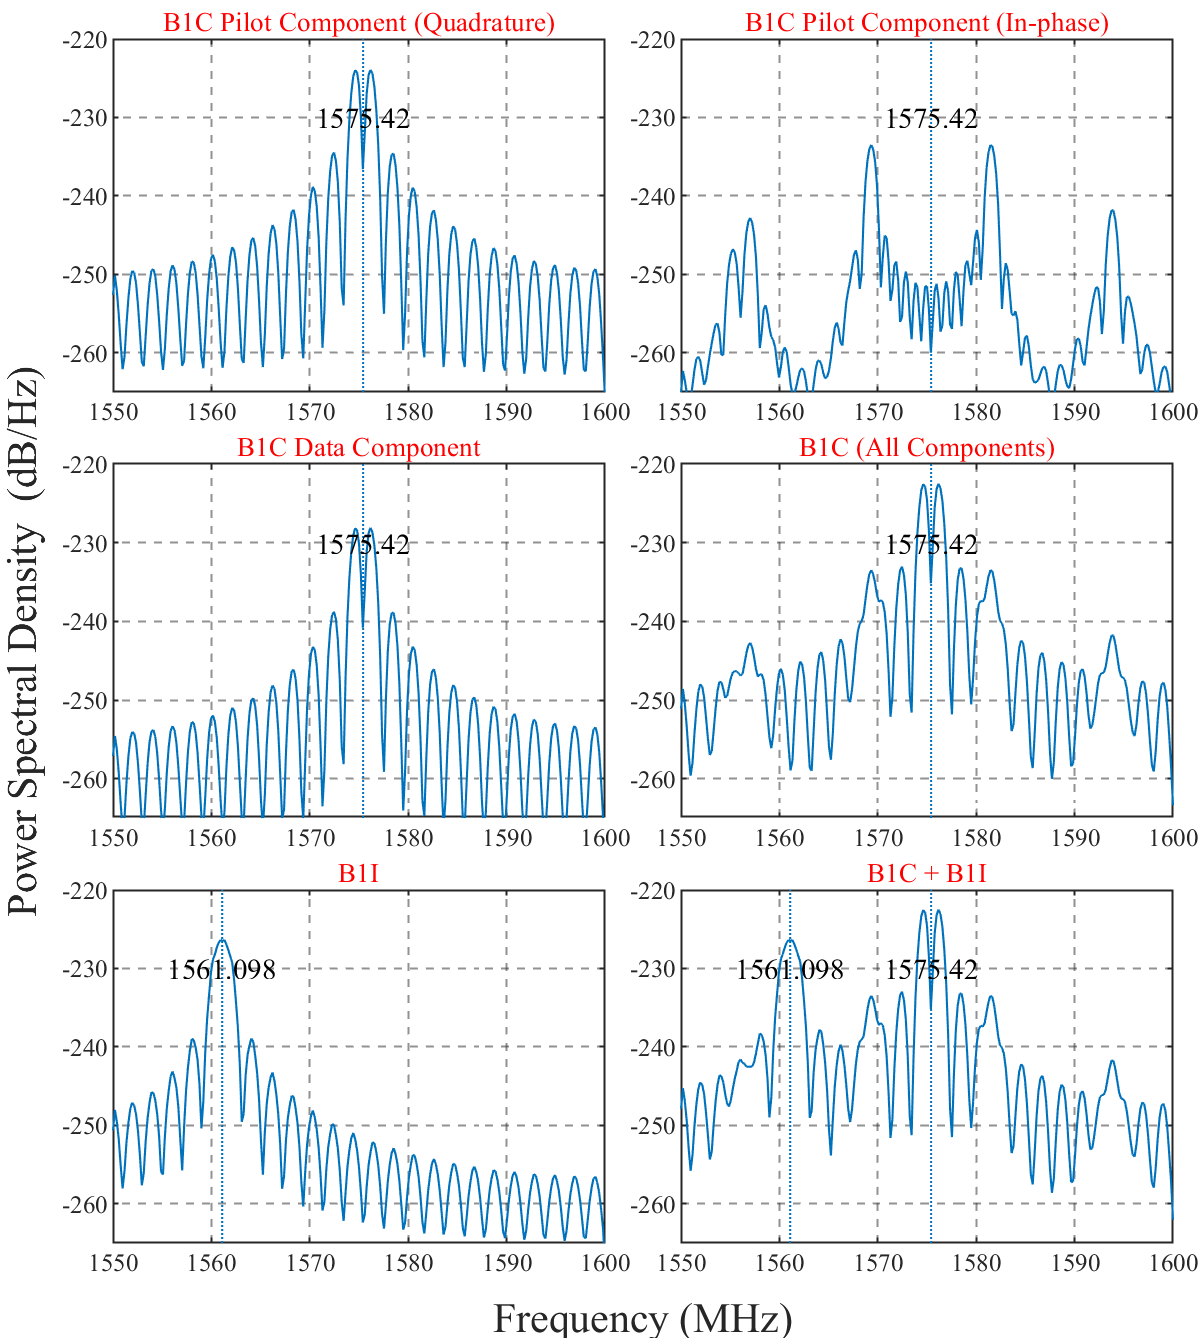
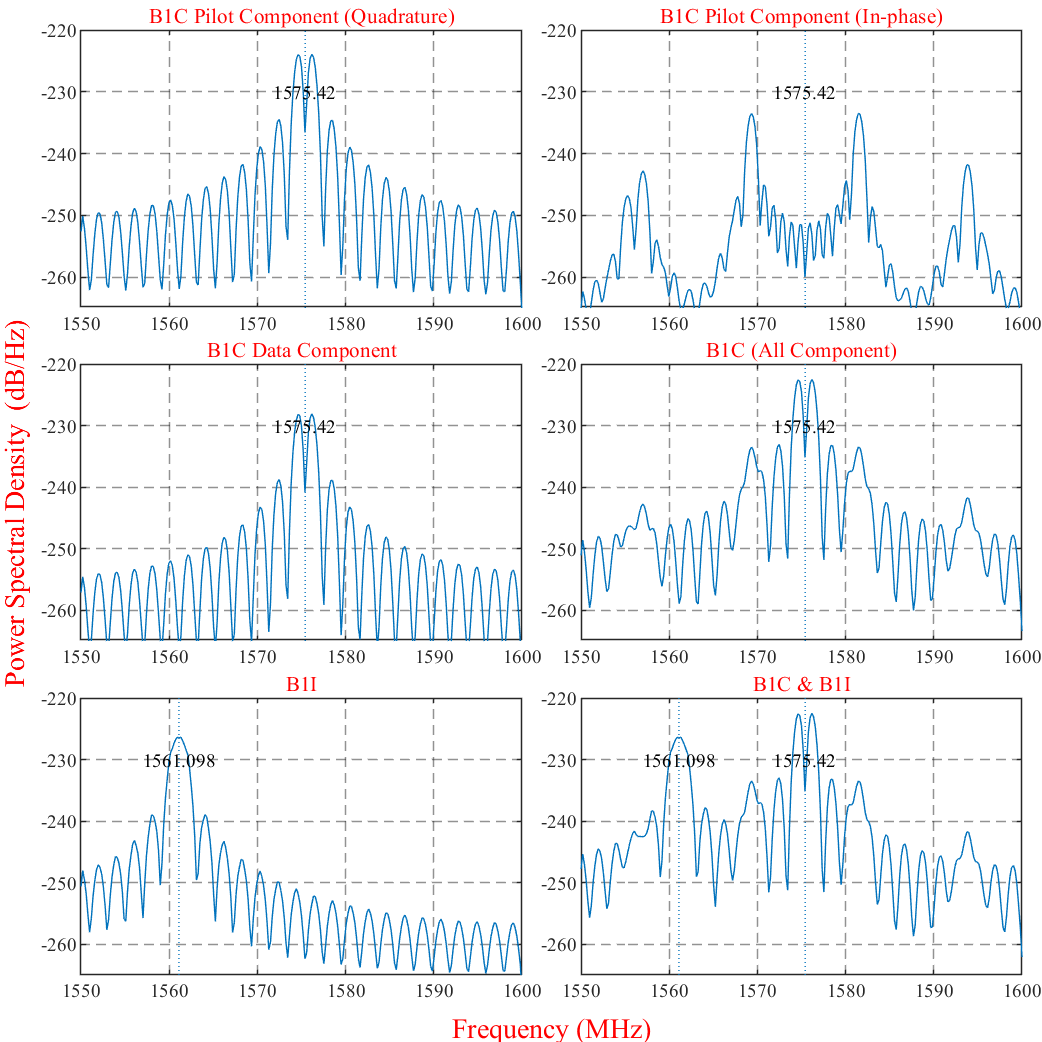
modify plot

diff --git a/plotB1PSD.m b/plotB1PSD.m
@@ -19,116 +19,61 @@ pb1i = -163;   % -163 dBW
 [b1c,sD,sP1,sP2] = b1cSignalGen(t,PRN,fs,fIFc,deltaF,phi,pb1c);
 b1i = b1iSignalGen(t,PRN,fs,fIFi,deltaF/fb1c*fb1i,phi,pb1i);
 %% 功率谱密度估计
-t = tiledlayout(3,2,'TileSpacing','none','Padding','none');
-xlabel(t,'Frequency (MHz)','FontName','Times New Roman','FontSize',10);
-ylabel(t,'Power Spectral Density  (dB/Hz)','FontName','Times New Roman','FontSize',10);
+fig = figure('Position',[100 100 500 500]);
+t = tiledlayout(3,2,'Parent',fig,'TileSpacing','none','Padding','none');
+xlabel(t,'Frequency (MHz)','FontName','Times New Roman','FontSize',10,'Color','r');
+ylabel(t,'Power Spectral Density  (dB/Hz)','FontName','Times New Roman','FontSize',10,'Color','r');
+ax = gobjects(3,2);
+for i = 1:6
+    ax(i) = nexttile;
+    ax(i).Box = 'on';
+    ax(i).Title.Color = 'r';
+    ax(i).FontName = 'Times New Roman';
+    ax(i).FontSize = 7;
+    ax(i).XLim = [1550e6 1600e6];
+    ax(i).XTick = 1550e6:10e6:1600e6;
+    ax(i).XTickLabel = {'1550' '1560' '1570' '1580' '1590' '1600'};
+    ax(i).YLim = [-265 -220];
+    grid(ax(i),'on');
+    ax(i).GridAlpha = 0.5;
+    ax(i).GridLineStyle = '--';   
+end
 %% 导频分量1(正交)
-ax1 = nexttile;
 [p,f] = pwelch(sP1,500,250,512,fs);
-plot(f+fb1c-fIFc,10*log10(p));
-ax1.Title.String = 'B1C Pilot Component (Quadrature)';
-ax1.Title.Color = 'r';
-ax1.FontName = 'Times New Roman';
-ax1.FontSize = 6;
-ax1.XTick = 1550e6:10e6:1600e6;
-ax1.XTickLabel = {'1550' '1560' '1570' '1580' '1590' '1600'};
-% ax1.XLabel.String = 'Frequency (MHz)';
-% ax1.YLabel.String = 'PSD (dB/Hz)';
-ax1.YLim = [-265 -220];
-grid on
-ax1.GridAlpha = 0.5;
-ax1.GridLineStyle = '--';
-line([fb1c fb1c],ax1.YLim,'LineStyle',':');
-text(fb1c,-230,'1575.42','HorizontalAlignment','center','FontName','Times New Roman','FontSize',7);
+line(ax(1),f+fb1c-fIFc,10*log10(p));
+ax(1).Title.String = 'B1C Pilot Component (Quadrature)';
+line(ax(1),[fb1c fb1c],ax(1).YLim,'LineStyle',':');
+text(ax(1),fb1c,-230,'1575.42','HorizontalAlignment','center','FontName','Times New Roman','FontSize',7);
 %% 导频分量2(同相)
-ax2 = nexttile;
 [p,f]=pwelch(sP2,500,250,512,fs);
-plot(f+fb1c-fIFc,10*log10(p));
-ax2.Title.String = 'B1C Pilot Component (In-phase)';
-ax2.Title.Color = 'r';
-ax2.FontName = 'Times New Roman';
-ax2.FontSize = 6;
-ax2.XTick = 1550e6:10e6:1600e6;
-ax2.XTickLabel = {'1550' '1560' '1570' '1580' '1590' '1600'};
-% ax2.XLabel.String = 'Frequency (MHz)';
-% ax2.YLabel.String = 'PSD (dB/Hz)';
-ax2.YLim = [-265 -220];
-grid on
-ax2.GridAlpha = 0.5;
-ax2.GridLineStyle = '--';
-line([fb1c fb1c],ax2.YLim,'LineStyle',':');
-text(fb1c,-230,'1575.42','HorizontalAlignment','center','FontName','Times New Roman','FontSize',7);
+line(ax(2),f+fb1c-fIFc,10*log10(p));
+ax(2).Title.String = 'B1C Pilot Component (In-phase)';
+line(ax(2),[fb1c fb1c],ax(2).YLim,'LineStyle',':');
+text(ax(2),fb1c,-230,'1575.42','HorizontalAlignment','center','FontName','Times New Roman','FontSize',7);
 %% B1C数据分量
-ax3 = nexttile;
+ax(3).Title.String = 'B1C Data Component';
 [p,f]=pwelch(sD,500,250,512,fs);
-plot(f+fb1c-fIFc,10*log10(p));
-ax3.Title.String = 'B1C Data Component';
-ax3.Title.Color = 'r';
-ax3.FontName = 'Times New Roman';
-ax3.FontSize = 6;
-ax3.XTick = 1550e6:10e6:1600e6;
-ax3.XTickLabel = {'1550' '1560' '1570' '1580' '1590' '1600'};
-% ax3.XLabel.String = 'Frequency (MHz)';
-% ax3.YLabel.String = 'PSD (dB/Hz)';
-ax3.YLim = [-265 -220];
-grid on
-ax3.GridAlpha = 0.5;
-ax3.GridLineStyle = '--';
-line([fb1c fb1c],ax3.YLim,'LineStyle',':');
-text(fb1c,-230,'1575.42','HorizontalAlignment','center','FontName','Times New Roman','FontSize',7);
+line(ax(3),f+fb1c-fIFc,10*log10(p));
+line(ax(3),[fb1c fb1c],ax(3).YLim,'LineStyle',':');
+text(ax(3),fb1c,-230,'1575.42','HorizontalAlignment','center','FontName','Times New Roman','FontSize',7);
 %% B1C全体分量
-ax4 = nexttile;
+ax(4).Title.String = 'B1C (All Component)';
 [p,f] = pwelch(b1c,500,250,512,fs);
-plot(f+fb1c-fIFc,10*log10(p));
-ax4.Title.String = 'B1C (All Components)';
-ax4.Title.Color = 'r';
-ax4.FontName = 'Times New Roman';
-ax4.FontSize = 6;
-ax4.XTick = 1550e6:10e6:1600e6;
-ax4.XTickLabel = {'1550' '1560' '1570' '1580' '1590' '1600'};
-% ax4.XLabel.String = 'Frequency (MHz)';
-% ax4.YLabel.String = 'PSD (dB/Hz)';
-ax4.YLim = [-265 -220];
-grid on
-ax4.GridAlpha = 0.5;
-ax4.GridLineStyle = '--';
-line([fb1c fb1c],ax4.YLim,'LineStyle',':');
-text(fb1c,-230,'1575.42','HorizontalAlignment','center','FontName','Times New Roman','FontSize',7);
+line(ax(4),f+fb1c-fIFc,10*log10(p));
+line(ax(4),[fb1c fb1c],ax(4).YLim,'LineStyle',':');
+text(ax(4),fb1c,-230,'1575.42','HorizontalAlignment','center','FontName','Times New Roman','FontSize',7);
 %% B1I
-ax5 = nexttile;
+ax(5).Title.String = 'B1I';
 [p,f] = pwelch(b1i,500,250,512,fs);
-plot(f+fb1c-fIFc,10*log10(p));
-ax5.Title.String = 'B1I';
-ax5.Title.Color = 'r';
-ax5.FontName = 'Times New Roman';
-ax5.FontSize = 6;
-ax5.XTick = 1550e6:10e6:1600e6;
-ax5.XTickLabel = {'1550' '1560' '1570' '1580' '1590' '1600'};
-% ax5.XLabel.String = 'Frequency (MHz)';
-% ax5.YLabel.String = 'PSD (dB/Hz)';
-ax5.YLim = [-265 -220];
-grid on
-ax5.GridAlpha = 0.5;
-ax5.GridLineStyle = '--';
-line([fb1i fb1i],ax5.YLim,'LineStyle',':');
-text(fb1i,-230,'1561.098','HorizontalAlignment','center','FontName','Times New Roman','FontSize',7);
+line(ax(5),f+fb1c-fIFc,10*log10(p));
+line(ax(5),[fb1i fb1i],ax(5).YLim,'LineStyle',':');
+text(ax(5),fb1i,-230,'1561.098','HorizontalAlignment','center','FontName','Times New Roman','FontSize',7);
 %% B1C + B1I
-ax6 = nexttile;
+ax(6).Title.String = 'B1C & B1I';
 [p,f] = pwelch(b1c + b1i,500,250,512,fs);
-plot(f+fb1c-fIFc,10*log10(p));
-ax6.Title.String = 'B1C + B1I';
-ax6.Title.Color = 'r';
-ax6.FontName = 'Times New Roman';
-ax6.FontSize = 6;
-ax6.XTick = 1550e6:10e6:1600e6;
-ax6.XTickLabel = {'1550' '1560' '1570' '1580' '1590' '1600'};
-% ax6.XLabel.String = 'Frequency (MHz)';
-% ax6.YLabel.String = 'PSD (dB/Hz)';
-grid on
-ax6.GridAlpha = 0.5;
-ax6.GridLineStyle = '--';
-ax6.YLim = [-265 -220];
-line([fb1c fb1c],ax6.YLim,'LineStyle',':');
-line([fb1i fb1i],ax6.YLim,'LineStyle',':');
-text(fb1i,-230,'1561.098','HorizontalAlignment','center','FontName','Times New Roman','FontSize',7);
-text(fb1c,-230,'1575.42','HorizontalAlignment','center','FontName','Times New Roman','FontSize',7);
+line(ax(6),f+fb1c-fIFc,10*log10(p));
+line(ax(6),[fb1c fb1c],ax(6).YLim,'LineStyle',':');
+line(ax(6),[fb1i fb1i],ax(6).YLim,'LineStyle',':');
+text(ax(6),fb1i,-230,'1561.098','HorizontalAlignment','center','FontName','Times New Roman','FontSize',7);
+text(ax(6),fb1c,-230,'1575.42','HorizontalAlignment','center','FontName','Times New Roman','FontSize',7);
+print('-r200','B1_PSD','-dpng');
